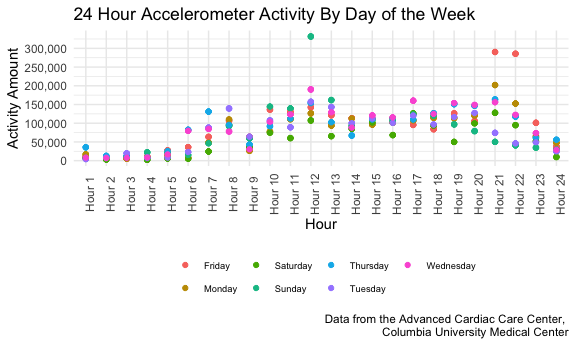
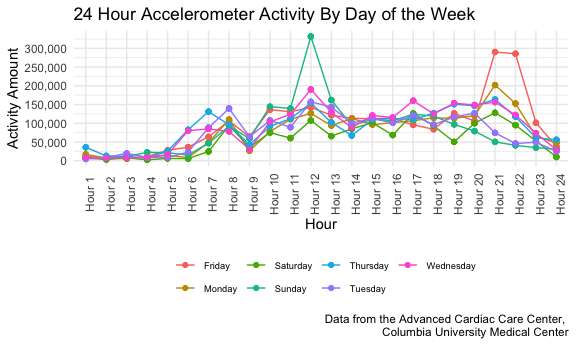
connecting the dots for problem 3, plot 3!!!

diff --git a/hw3.md b/hw3.md
@@ -433,7 +433,7 @@ accel_data_plot = group_by(accel_data_df, day) %>%
     values_to = "activity_number") 
 
 ggplot(accel_data_plot, aes(x = Hour, y = activity_number, color = day)) +
-  geom_point() + 
+  geom_line(aes(group = day)) + geom_point() + 
   labs(
     title = "24 Hour Accelerometer Activity By Day of the Week",
     x = "Hour",
